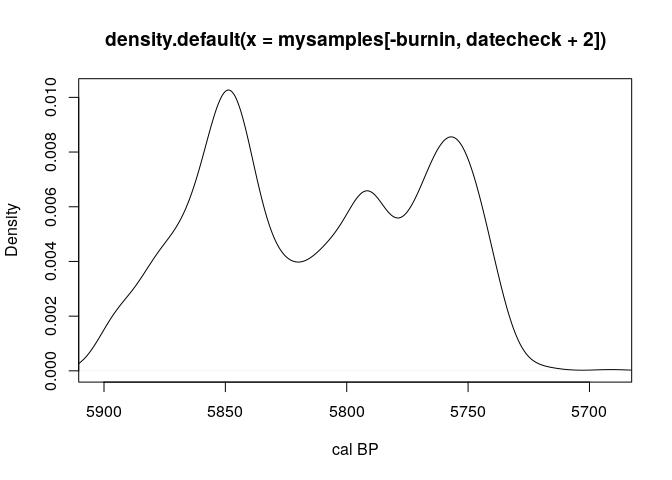
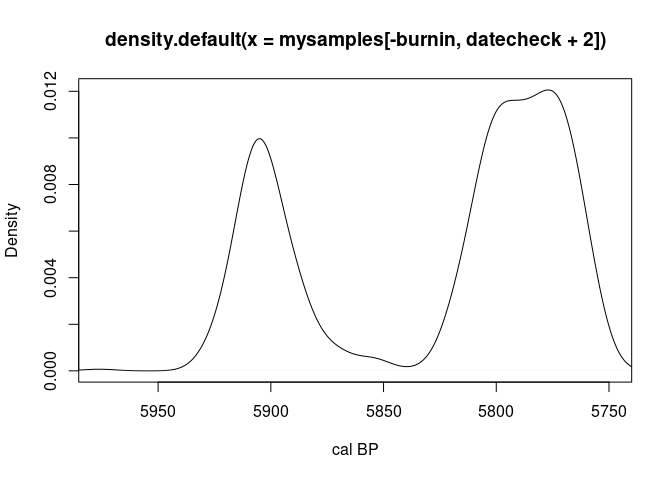
doc updates

diff --git a/README.md b/README.md
@@ -1,12 +1,32 @@
 
 <!-- README.md is generated from README.Rmd. Please edit that file -->
+
 # recm
 
 <!-- badges: start -->
 <!-- badges: end -->
-The R::recm package provides tools for estimating parameters for Radiocarbon-dated Event Count (REC) Models (Carleton 2020). REC models are count-based regression models that account for radiocarbon-dating uncertainty in event times. They can be used in cases where abundances of radiocarbon dates are used as a proxy for some process that occurred in the past. Like any regression model, covariates are used to test hypotheses about potential causal relationships between processes represented by those variables and through-time variation in radiocarbon-dated sample abundances. Unlike previously developed REC model packages, this package employs an 'end-to-end' Bayesian framework, which means that the likelihoods of individual event times (given radiocarbon measurement and calibration uncertainties) are included explicitly in the likelihood for the model.
 
-For now, the recm package only includes a simple Poisson REC model. It includes no autocorrelation terms and accounts only for radiocarbon-dating uncertainty in the dependent variable. It does not account for chronological or other uncertainty in the included independent variables. In time, the package will be extended to include covariate uncertainties (both chronological and measurement) and more complicated count-based time-series regression models.
+The R::recm package provides tools for estimating parameters for
+Radiocarbon-dated Event Count (REC) Models (Carleton 2020). REC models
+are count-based regression models that account for radiocarbon-dating
+uncertainty in event times. They can be used in cases where abundances
+of radiocarbon dates are used as a proxy for some process that occurred
+in the past. Like any regression model, covariates are used to test
+hypotheses about potential causal relationships between processes
+represented by those variables and through-time variation in
+radiocarbon-dated sample abundances. Unlike previously developed REC
+model packages, this package employs an ‘end-to-end’ Bayesian framework,
+which means that the likelihoods of individual event times (given
+radiocarbon measurement and calibration uncertainties) are included
+explicitly in the likelihood for the model.
+
+For now, the recm package only includes a simple Poisson REC model. It
+includes no autocorrelation terms and accounts only for
+radiocarbon-dating uncertainty in the dependent variable. It does not
+account for chronological or other uncertainty in the included
+independent variables. In time, the package will be extended to include
+covariate uncertainties (both chronological and measurement) and more
+complicated count-based time-series regression models.
 
 ## Installation
 
@@ -17,7 +37,9 @@ You can install the released version of recm from [CRAN](https://CRAN.R-project.
 install.packages("recm")
 ```
 -->
-You can install the development version from [GitHub](https://github.com/) with:
+
+You can install the development version from
+[GitHub](https://github.com/) with:
 
 ``` r
 # install.packages("devtools")
@@ -26,22 +48,99 @@ devtools::install_github("wccarleton/recmod")
 
 ## Example
 
-To demonstrate the basic use of this package, we can simulate some data from a hypothetical process and try to estimate a pre-determined target regression coefficient. Rather than just using purely simulated abstract data and processes, though, we can frame the problem in a way that is close to a real palaeo data science analysis.
+To demonstrate the basic use of this package, we can simulate some data
+from a hypothetical process and try to estimate a pre-determined target
+regression coefficient. Rather than just using purely simulated abstract
+data and processes, though, we can frame the problem in a way that is
+close to a real palaeo data science analysis.
 
-Imagine a set of true event times (in calendar years BP) generated from a process dependent on climate change. The event times could represent, for example, archaeological site occupation dates, or burials, or carbon deposition in wetlands from marine ingression, and our data will be a set of relevant radiocarbon dates. Our simulated data will come from a statistical model (process model) that assumes through-time fluctuations in the abundance of radiocarbon samples is dependent on regional climate changes as indicated by a relevant palaeoclimate reconstruction. But, importantly, the relationship will not be deterministic. The number of samples per time period will be a random count variable with a distribution conditional on corresponding variation in climate. So, denoting the sample count at a given time by *y*<sub>*t*</sub> and assuming a Poisson distribution (*Pois*(⋅)),
+Imagine a set of true event times (in calendar years BP) generated from
+a process dependent on climate change. The event times could represent,
+for example, archaeological site occupation dates, or burials, or carbon
+deposition in wetlands from marine ingression, and our data will be a
+set of relevant radiocarbon dates. Our simulated data will come from a
+statistical model (process model) that assumes through-time fluctuations
+in the abundance of radiocarbon samples is dependent on regional climate
+changes as indicated by a relevant palaeoclimate reconstruction. But,
+importantly, the relationship will not be deterministic. The number of
+samples per time period will be a random count variable with a
+distribution conditional on corresponding variation in climate. So,
+denoting the sample count at a given time by
+![y_t](https://latex.codecogs.com/png.image?%5Cdpi%7B110%7D&space;%5Cbg_white&space;y_t "y_t")
+and assuming a Poisson distribution
+(![{Pois}(\cdot)](https://latex.codecogs.com/png.image?%5Cdpi%7B110%7D&space;%5Cbg_white&space;%7BPois%7D%28%5Ccdot%29 "{Pois}(\cdot)")),
 
-*y*<sub>*t*</sub> ∼ *Pois*(*x*<sub>*t*</sub>*β*)
+![y_t \sim {Pois}(x_t\beta)](https://latex.codecogs.com/png.image?%5Cdpi%7B110%7D&space;%5Cbg_white&space;y_t%20%5Csim%20%7BPois%7D%28x_t%5Cbeta%29 "y_t \sim {Pois}(x_t\beta)")
+
 ,
 
-where *x*<sub>*t*</sub>*β* is a regression term that can include an intercept and an arbitrary number of covariates. In the regression part of the model, *x*<sub>*t*</sub> is a vector containing an intercept and the value of the palaeoclimate proxy at time *t* (or values for multiple covariates) and *β* is a vector containing regression coefficients, including one for the intercept. In our example, the main regression coefficient indicates the strength and direction of the effect of climate on the abundance of radiocarbon samples. Whatever value we set *β*<sub>1</sub> to while simulating the data below will become the target for our estimation with a REC model.
+where
+![x_t\beta](https://latex.codecogs.com/png.image?%5Cdpi%7B110%7D&space;%5Cbg_white&space;x_t%5Cbeta "x_t\beta")
+is a regression term that can include an intercept and an arbitrary
+number of covariates. In the regression part of the model,
+![x_t](https://latex.codecogs.com/png.image?%5Cdpi%7B110%7D&space;%5Cbg_white&space;x_t "x_t")
+is a vector containing an intercept and the value of the palaeoclimate
+proxy at time
+![t](https://latex.codecogs.com/png.image?%5Cdpi%7B110%7D&space;%5Cbg_white&space;t "t")
+(or values for multiple covariates) and
+![\beta](https://latex.codecogs.com/png.image?%5Cdpi%7B110%7D&space;%5Cbg_white&space;%5Cbeta "\beta")
+is a vector containing regression coefficients, including one for the
+intercept. In our example, the main regression coefficient indicates the
+strength and direction of the effect of climate on the abundance of
+radiocarbon samples. Whatever value we set
+![\beta_1](https://latex.codecogs.com/png.image?%5Cdpi%7B110%7D&space;%5Cbg_white&space;%5Cbeta_1 "\beta_1")
+to while simulating the data below will become the target for our
+estimation with a REC model.
 
-For the climate change process, we can use a real climate reconstruction from the [NOAA data warehouse](https://www.ncei.noaa.gov/access/paleo-search/). For the example below, I've downloaded and prepared a [pollen-based palaeo temperature reconstruction](https://www.ncei.noaa.gov/pub/data/paleo/pollen/recons/northamerica/viau2006namerica-temp.txt) for North America originally published by Viau et al. (2006). The prepared data are available with this package. They are a time series of temperature deviations sampled centennially and they are thought to reflect century-scale variation in temperature for North America from 6900 BP to 100 BP---at least these are the temporal characteristics of the specific time-series I extracted and prepared from the published, much larger dataset. This time-series will be used as the *x* in the process model to produce a sample of plausible event times from the stochastic climate--radiocarbon-abundance process.
+For the climate change process, we can use a real climate reconstruction
+from the [NOAA data
+warehouse](https://www.ncei.noaa.gov/access/paleo-search/). For the
+example below, I’ve downloaded and prepared a [pollen-based palaeo
+temperature
+reconstruction](https://www.ncei.noaa.gov/pub/data/paleo/pollen/recons/northamerica/viau2006namerica-temp.txt)
+for North America originally published by Viau et al. (2006). The
+prepared data are available with this package. They are a time series of
+temperature deviations sampled centennially and they are thought to
+reflect century-scale variation in temperature for North America from
+6900 BP to 100 BP—at least these are the temporal characteristics of the
+specific time-series I extracted and prepared from the published, much
+larger dataset. This time-series will be used as the
+![x](https://latex.codecogs.com/png.image?%5Cdpi%7B110%7D&space;%5Cbg_white&space;x "x")
+in the process model to produce a sample of plausible event times from
+the stochastic climate–radiocarbon-abundance process.
 
-In order to simulate some data from the process, we need to set a few parameters. These include start and end times (any palaeo data science analysis involves setting bounds on time and space, of course) and an effective temporal resolution (also practically always necessary). For this simulated example, we can just select some arbitrary interval that covers the time spanned by the climate data and use the climate dataset's existing temporal resolution (centennial). These temporal parameters establish a time-series grid that REC models (like any count-based time-series model) needs in order to pair dependent and independent variable measurements. The recm package will take the time grid as an argument as well (`t_edges`), so we need to prepare it in advance anyway.
+In order to simulate some data from the process, we need to set a few
+parameters. These include start and end times (any palaeo data science
+analysis involves setting bounds on time and space, of course) and an
+effective temporal resolution (also practically always necessary). For
+this simulated example, we can just select some arbitrary interval that
+covers the time spanned by the climate data and use the climate
+dataset’s existing temporal resolution (centennial). These temporal
+parameters establish a time-series grid that REC models (like any
+count-based time-series model) needs in order to pair dependent and
+independent variable measurements. The recm package will take the time
+grid as an argument as well (`t_edges`), so we need to prepare it in
+advance anyway.
 
-It is important to ensure that the temporal grid and the covariates are running in the same temporal direction (either with time increasing into the past or toward the present). So, below, I've arranged the grid and the climate reconstruction so that time is moving from left-to-right (for the grid) and top-to-bottom for the `X` matrix. Age, though, will be decreasing because the calendar is in years BP, so the `t_grid` vector will contain a series of decreasing values. If this order is confused (e.g., the time direction of `t_grid` and the sequence of values in `x` are reversed relative to one another) the regression coefficient(s) in a REC model would have the wrong sign.
+It is important to ensure that the temporal grid and the covariates are
+running in the same temporal direction (either with time increasing into
+the past or toward the present). So, below, I’ve arranged the grid and
+the climate reconstruction so that time is moving from left-to-right
+(for the grid) and top-to-bottom for the `X` matrix. Age, though, will
+be decreasing because the calendar is in years BP, so the `t_grid`
+vector will contain a series of decreasing values. If this order is
+confused (e.g., the time direction of `t_grid` and the sequence of
+values in `x` are reversed relative to one another) the regression
+coefficient(s) in a REC model would have the wrong sign.
 
-The other two key parameters, of course, are the regression coefficients for the intercept and climate covariate, *β*<sub>0</sub>, *β*<sub>1</sub> (b0 and b1, respectively). Note that the `X` matrix below has as its first column a vector of 1's. This column represents the intercept for the model and should probably always be included. The second column contains the temperature reconstruction time-series (scaled and centered).
+The other two key parameters, of course, are the regression coefficients
+for the intercept and climate covariate,
+![\beta_0, \beta_1](https://latex.codecogs.com/png.image?%5Cdpi%7B110%7D&space;%5Cbg_white&space;%5Cbeta_0%2C%20%5Cbeta_1 "\beta_0, \beta_1")
+(b0 and b1, respectively). Note that the `X` matrix below has as its
+first column a vector of 1’s. This column represents the intercept for
+the model and should probably always be included. The second column
+contains the temperature reconstruction time-series (scaled and
+centered).
 
 ``` r
 library(recm)
@@ -64,7 +163,19 @@ b0 <- 0.5
 b1 <- 1.5
 ```
 
-With these initial settings, we need to simulate a sample of true event times. This can be done in different ways, but since we are assuming a stochastic relationship between climate and sample abundance, we will use random samples from a Poisson process model. A Poisson process, though, produces counts, not event times. In order to turn counts into event times, we just take the count for a given temporal bin and sample uniformly from the span of time covered by the bin in order to produce a sample of event times. There are reasons to prefer this approach to the alternate method frequently used to simulate dates---one that assumes the process is a one-dimensional density on the time-domain and samples directly from that---but that discussion is beyond the scope of this README and results will be similar either way, at least in small simulations like this.
+With these initial settings, we need to simulate a sample of true event
+times. This can be done in different ways, but since we are assuming a
+stochastic relationship between climate and sample abundance, we will
+use random samples from a Poisson process model. A Poisson process,
+though, produces counts, not event times. In order to turn counts into
+event times, we just take the count for a given temporal bin and sample
+uniformly from the span of time covered by the bin in order to produce a
+sample of event times. There are reasons to prefer this approach to the
+alternate method frequently used to simulate dates—one that assumes the
+process is a one-dimensional density on the time-domain and samples
+directly from that—but that discussion is beyond the scope of this
+README and results will be similar either way, at least in small
+simulations like this.
 
 ``` r
 library(IntCal)
@@ -81,7 +192,10 @@ for(j in 1:length(event_counts)){
 }
 ```
 
-With a simulated set of "true" event-times, we now need a plausible set of corresponding radiocarbon determinations. IntCal provides a function for getting realistic simulated uncalibrated radiocarbon dates from a set of true calendar dates.
+With a simulated set of “true” event-times, we now need a plausible set
+of corresponding radiocarbon determinations. IntCal provides a function
+for getting realistic simulated uncalibrated radiocarbon dates from a
+set of true calendar dates.
 
 ``` r
 library(IntCal)
@@ -89,22 +203,42 @@ library(IntCal)
 dates <- do.call(rbind, lapply(event_times, IntCal::calBP.14C))
 ```
 
-We can now run a REC model analysis in an attempt to reconstruct the true growth rate for the exponential process (1.5, from above). The `recm::recm()` function runs a [Metropolis-Hastings MCMC](https://en.wikipedia.org/wiki/Metropolis%E2%80%93Hastings_algorithm) to sample the Poisson regression model's posterior distribution. The simulation takes several arguments. The key ones to note here are
+We can now run a REC model analysis in an attempt to reconstruct the
+true growth rate for the exponential process (1.5, from above). The
+`recm::recm()` function runs a [Metropolis-Hastings
+MCMC](https://en.wikipedia.org/wiki/Metropolis%E2%80%93Hastings_algorithm)
+to sample the Poisson regression model’s posterior distribution. The
+simulation takes several arguments. The key ones to note here are
 
--   *niter*, which determines the number of iterations the MCMC is run for;
--   *adapt*, which is a logical (T or F) that determines whether the engage an adaptive algorithm for finding optimal proposal distribution scales for the main regression parameters (i.e., excluding the scales for proposal distributions pertaining to the event times);
--   *adapt\_amount*, *adapt\_interval*, and *adapt\_window*, which are all related to the adaptive algorithm;
--   *scales*, which is a vector of starting values for the proposal distribution scales for the main regression parameter.
+-   *niter*, which determines the number of iterations the MCMC is run
+    for;
+-   *adapt*, which is a logical (T or F) that determines whether the
+    engage an adaptive algorithm for finding optimal proposal
+    distribution scales for the main regression parameters (i.e.,
+    excluding the scales for proposal distributions pertaining to the
+    event times);
+-   *adapt_amount*, *adapt_interval*, and *adapt_window*, which are all
+    related to the adaptive algorithm;
+-   *scales*, which is a vector of starting values for the proposal
+    distribution scales for the main regression parameter.
 
-Unlike some other regression functions, the dependent variable is passed into `recm()` as a matrix of radiocarbon dates (the ones we simulated) and the covariates are passed in as the `X` matrix (the real palaeoclimate time-series we used to simulate event times). The third parameter is a vector of temporal bin edges that define a temporal grid for the analysis (also produced earlier).
+Unlike some other regression functions, the dependent variable is passed
+into `recm()` as a matrix of radiocarbon dates (the ones we simulated)
+and the covariates are passed in as the `X` matrix (the real
+palaeoclimate time-series we used to simulate event times). The third
+parameter is a vector of temporal bin edges that define a temporal grid
+for the analysis (also produced earlier).
 
-The `recm()` function should in most cases be called the first time with `adapt = T` in order to find good values for proposal distribution scales. It will return a list including `$scales`, which will be a matrix of scale values that have been adapted throughout the simulation.
+The `recm()` function should in most cases be called the first time with
+`adapt = T` in order to find good values for proposal distribution
+scales. It will return a list including `$scales`, which will be a
+matrix of scale values that have been adapted throughout the simulation.
 
 ``` r
 mysamples_adapt <- recm(dates,
                     X,
                     t_edges,
-                    niter = 2000,
+                    niter = 5000,
                     adapt = T,
                     adapt_amount = 0.1,
                     adapt_interval = 20,
@@ -120,13 +254,24 @@ burnin = 1:floor(dim(mysamples_adapt$scales)[1] * 0.25)
 newscales <- colMeans(mysamples_adapt$scales[-burnin, ])
 ```
 
-After removing some burn-in, we can then take an average of the scales tried by the adaptive algorithm and pass those as the `scales` argument to the `recm()` function with `adapt = F`. In this case, the scales refer to the proposal distributions for the two regression coefficients in the model, b0 and b1. The scales tried by the MCMC are returned in a matrix (`$scales`) where the columns are ordered in a way that mirrors the ordering of columns in the `X` matrix---so `$scales[1]` refers to the intercept and `$scales[1]` refers to the climate covariate regression coefficient. The same ordering occurs in the MCMC samples matrix (`$samples`) but that matrix also contains a column for the posterior samples for event times corresponding to each radiocarbon date and they are ordered following the descending order of events in `dates`.
+After removing some burn-in, we can then take an average of the scales
+tried by the adaptive algorithm and pass those as the `scales` argument
+to the `recm()` function with `adapt = F`. In this case, the scales
+refer to the proposal distributions for the two regression coefficients
+in the model, b0 and b1. The scales tried by the MCMC are returned in a
+matrix (`$scales`) where the columns are ordered in a way that mirrors
+the ordering of columns in the `X` matrix—so `$scales[1]` refers to the
+intercept and `$scales[1]` refers to the climate covariate regression
+coefficient. The same ordering occurs in the MCMC samples matrix
+(`$samples`) but that matrix also contains a column for the posterior
+samples for event times corresponding to each radiocarbon date and they
+are ordered following the descending order of events in `dates`.
 
 ``` r
 mysamples <- recm(dates,
                 X,
                 t_edges,
-                niter = 5000,
+                niter = 20000,
                 adapt = F,
                 scales = newscales)
 #> No starting values provided ('startvals == NULL'). Using defaults.
@@ -135,7 +280,16 @@ mysamples <- recm(dates,
 #> Running MCMC...
 ```
 
-The second run returned only the MCMC chains as a matrix with the first columns containing samples for the posteriors of the regression coefficients (two in this case corresponding to the two columns of the `X` matrix). The remaining columns contain samples of the event times, which will be samples from the calibrated date distributions---these are ordered the same as the radiocarbon dates in the matrix passed as the `dates` argument. These MCMC samples can then be plotted in order to check for mixing/convergence and then used to estimate posterior distributions and perform inference. As the plots below show, b1 was recovered (is within the 95% credible region) by the REC model MCMC.
+The second run returned only the MCMC chains as a matrix with the first
+columns containing samples for the posteriors of the regression
+coefficients (two in this case corresponding to the two columns of the
+`X` matrix). The remaining columns contain samples of the event times,
+which will be samples from the calibrated date distributions—these are
+ordered the same as the radiocarbon dates in the matrix passed as the
+`dates` argument. These MCMC samples can then be plotted in order to
+check for mixing/convergence and then used to estimate posterior
+distributions and perform inference. As the plots below show, b1 was
+recovered (is within the 95% credible region) by the REC model MCMC.
 
 ### MCMC Chain for target regression coefficient
 
@@ -145,7 +299,14 @@ The second run returned only the MCMC chains as a matrix with the first columns 
 
 <img src="man/figures/README-plots-2-1.png" width="100%" />
 
-We can also take a look at the posteriors for the calibrated radiocarbon dates. As mentioned, these are returned in the `$samples` matrix. They will be contained in the columns following the columns containing samples of the posteriors for the regression coefficients and ordered following the top-to-bottom ordering of the corresponding radiocarbon dates in the `dates` matrix. So, for example, we can plot the calibrated date density for the first event (which is contained in the 3rd column because it follows the column for two regression coefficients),
+We can also take a look at the posteriors for the calibrated radiocarbon
+dates. As mentioned, these are returned in the `$samples` matrix. They
+will be contained in the columns following the columns containing
+samples of the posteriors for the regression coefficients and ordered
+following the top-to-bottom ordering of the corresponding radiocarbon
+dates in the `dates` matrix. So, for example, we can plot the calibrated
+date density for the first event (which is contained in the 3rd column
+because it follows the column for two regression coefficients),
 
 ``` r
 datecheck <- 1
@@ -156,7 +317,8 @@ plot(density(mysamples[-burnin, datecheck + 2]),
 
 <img src="man/figures/README-plot-dates1-1.png" width="100%" />
 
-And, then, compare that plot to the calibration plot produced by IntCal for the same event,
+And, then, compare that plot to the calibration plot produced by IntCal
+for the same event,
 
 ``` r
 IntCal::calibrate(dates[datecheck, 1], dates[datecheck, 2])
@@ -164,18 +326,57 @@ IntCal::calibrate(dates[datecheck, 1], dates[datecheck, 2])
 
 <img src="man/figures/README-plot-dates-intcal-1.png" width="100%" />
 
-Some differences between the two should be expected because of the low number of iterations used in call the `recm()` above. The overall model likelihood is also affecting which age samples are retained in each MCMC iteration, which can produce different posteriors for the calibrated date densities than an unconstrained calibration would. Effectively, information from the whole date sample is being used to estimate posteriors for all model parameters, including the regression coefficients and the estimates for the true ages of each event in the sample.
+Some differences between the two should be expected because of the low
+number of iterations used in call the `recm()` above. The overall model
+likelihood is also affecting which age samples are retained in each MCMC
+iteration, which can produce different posteriors for the calibrated
+date densities than an unconstrained calibration would. Effectively,
+information from the whole date sample is being used to estimate
+posteriors for all model parameters, including the regression
+coefficients and the estimates for the true ages of each event in the
+sample.
 
 ## Notes
 
-1.  In many real-world analyses, one or more covariates could have different temporal resolutions and sampling frequencies. Those predictor variables will need to be put onto the same temporal grid used to define the whole analysis (defined in the `recm()` function by the `t_edges` parameter). Be sure to prepare the `X` matrix accordingly. This could be as simple as taking a running average of the temperature reconstruction and sampling it at the midpoints of the grid bins to produce a sequence of temperature averages at the appropriate temporal resolution (e.g., decadal averages, or whatever is appropriate).
+1.  In many real-world analyses, one or more covariates could have
+    different temporal resolutions and sampling frequencies. Those
+    predictor variables will need to be put onto the same temporal grid
+    used to define the whole analysis (defined in the `recm()` function
+    by the `t_edges` parameter). Be sure to prepare the `X` matrix
+    accordingly. This could be as simple as taking a running average of
+    the temperature reconstruction and sampling it at the midpoints of
+    the grid bins to produce a sequence of temperature averages at the
+    appropriate temporal resolution (e.g., decadal averages, or whatever
+    is appropriate).
 
-2.  Of course, almost any potential covariate will have chronological and measurement uncertainties and the `recm()` function currently does not include those. Future updates will include options for representing covariate uncertainties ('errors-in-variables').
+2.  Of course, almost any potential covariate will have chronological
+    and measurement uncertainties and the `recm()` function currently
+    does not include those. Future updates will include options for
+    representing covariate uncertainties (‘errors-in-variables’).
 
-3.  It is also worth highlighting that increasing the number of events/radiocarbon-dates will increase computation times and likely require longer MCMC runs (more iterations) to arrive at good estimates for model posteriors. When `adapt = T`, the `recm()` function returns a list that includes acceptance rates and scales along with posterior samples (MCMC chains) that can be used to help diagnose convergence problems.
+3.  It is also worth highlighting that increasing the number of
+    events/radiocarbon-dates will increase computation times and likely
+    require longer MCMC runs (more iterations) to arrive at good
+    estimates for model posteriors. When `adapt = T`, the `recm()`
+    function returns a list that includes acceptance rates and scales
+    along with posterior samples (MCMC chains) that can be used to help
+    diagnose convergence problems.
 
-4.  The MCMC should be run for much longer than it was in the demo above in order to obtain a good estimate for model's posteriors. In practice, tens of thousands of iterations should be used at least.
+4.  The MCMC should be run for much longer than it was in the demo above
+    in order to obtain a good estimate for model’s posteriors. In
+    practice, tens of thousands of iterations should be used at least.
 
 # References
 
-Carleton, W. Christopher. 2020. “Evaluating Bayesian Radiocarbon‐dated Event Count (REC) Models for the Study of Long‐term Human and Environmental Processes.” *Journal of Quaternary Science* 36 (1): 110–23. doi:[10.1002/jqs.3256](https://doi.org/10.1002/jqs.3256).
+<div id="refs" class="references csl-bib-body hanging-indent">
+
+<div id="ref-carleton_evaluating_2020" class="csl-entry">
+
+Carleton, W. Christopher. 2020. “Evaluating Bayesian Radiocarbon‐dated
+Event Count (REC) Models for the Study of Long‐term Human and
+Environmental Processes.” *Journal of Quaternary Science* 36 (1):
+110–23. <https://doi.org/10.1002/jqs.3256>.
+
+</div>
+
+</div>
